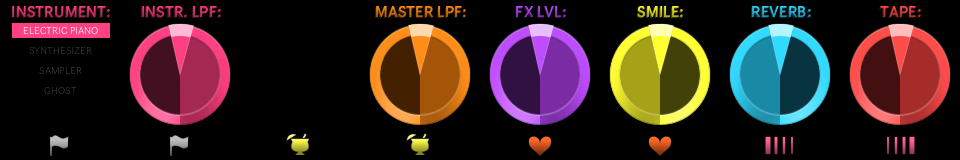
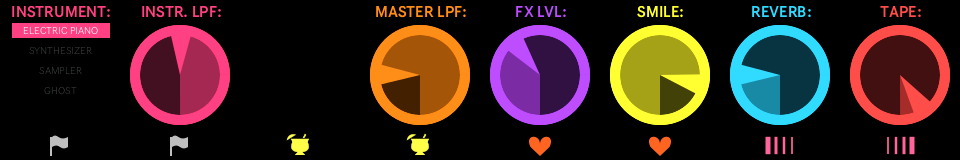
Updated display

diff --git a/display_utils.py b/display_utils.py
@@ -14,36 +14,13 @@ def show_title(ctx, x, h, text, color=[1, 1, 1]):
     ctx.show_text(text)
 
 
-def draw_xr18_button(ctx, x, xr18_button, text, color):
-    if xr18_button == 0:
-        ctx.set_source_rgb(*color)
-    else:
-        color2 = [1, 1, 1]
-        fill_button(ctx, x, 0, *color2)
-        # Paint Shape Black
-        ctx.set_source_rgb(0, 0, 0)
-    ctx.select_font_face("Ableton Sans Bold", cairo.FONT_SLANT_NORMAL, cairo.FONT_WEIGHT_NORMAL)
-    ctx.set_font_size(15)
-    ctx.move_to(x - (ctx.text_extents(text)[2] / 2), 25)
-    ctx.show_text(text)
-
-
 def draw_title(ctx, center_x, text, *color):
     text = str(text)
     ctx.select_font_face("Ableton Sans Bold", cairo.FONT_SLANT_NORMAL, cairo.FONT_WEIGHT_NORMAL)
     ctx.set_font_size(15)
 
-    # Text Shadow
-    ctx.set_source_rgba(*color, 0.25)
-    ctx.move_to(center_x - (ctx.text_extents(text)[2] / 2) - 1, 18)
-    ctx.text_path(text)
-    ctx.fill()
-
     # Main Text
-    pat = cairo.LinearGradient(center_x - (ctx.text_extents(text)[2] / 2), ctx.text_extents(text)[3] / 2, center_x - (ctx.text_extents(text)[2] / 2), ctx.text_extents(text)[3] * 2)
-    pat.add_color_stop_rgb(0, *color)
-    pat.add_color_stop_rgba(1, *color, 0.42)
-    ctx.set_source(pat)
+    ctx.set_source_rgb(*color)
     ctx.move_to(center_x - (ctx.text_extents(text)[2] / 2), 17)
     ctx.show_text(text)
 
@@ -129,29 +106,7 @@ def draw_knob(ctx, center_x, center_y, rad, control, off_value, *color):
             ctx.set_line_width(line)
             ctx.stroke()
 
-            pat = cairo.MeshPattern()
-            pat.begin_patch()
-            pat.move_to(center_x, center_y - (rad / 4 + (line / 2)))
-            pat.line_to(center_x - (rad + (line / 2)), center_y - (rad / 4 + (line / 2)))
-            pat.line_to(center_x - (rad + (line / 2)), center_y + (rad + (line / 2)))
-            pat.line_to(center_x, center_y + (rad + (line / 2)))
-            pat.set_corner_color_rgba(0, *color, 1)
-            pat.set_corner_color_rgba(1, *color, 1)
-            pat.set_corner_color_rgba(2, *color, 1)
-            pat.set_corner_color_rgba(3, 0, 0, 0, 0.25)
-            pat.end_patch()
-
-            pat.begin_patch()
-            pat.move_to(center_x, center_y + (rad + (line / 2)))
-            pat.line_to(center_x + (rad + (line / 2)), center_y + (rad + (line / 2)))
-            pat.line_to(center_x + (rad + (line / 2)), center_y - (rad / 4 + (line / 2)))
-            pat.line_to(center_x, center_y - (rad / 4 + (line / 2)))
-            pat.set_corner_color_rgba(0, 1, 1, 1, 0.05)
-            pat.set_corner_color_rgba(1, *color, 1)
-            pat.set_corner_color_rgba(2, *color, 1)
-            pat.set_corner_color_rgba(3, *color, 1)
-            pat.end_patch()
-            ctx.set_source(pat)
+            ctx.set_source_rgb(*color)
 
             ctx.arc(center_x, center_y, rad, 0, 2 * 3.14)
             ctx.set_line_width(line)
@@ -162,85 +117,34 @@ def draw_knob(ctx, center_x, center_y, rad, control, off_value, *color):
             ctx.set_line_width(line)
             ctx.stroke()
 
-            pat = cairo.MeshPattern()
-            pat.begin_patch()
-            pat.move_to(center_x, center_y - (rad / 4 + (line / 2)))
-            pat.line_to(center_x - (rad + (line / 2)), center_y - (rad / 4 + (line / 2)))
-            pat.line_to(center_x - (rad + (line / 2)), center_y + (rad + (line / 2)))
-            pat.line_to(center_x, center_y + (rad + (line / 2)))
-            pat.set_corner_color_rgba(0, *color, 1)
-            pat.set_corner_color_rgba(1, *color, 1)
-            pat.set_corner_color_rgba(2, *color, 1)
-            pat.set_corner_color_rgba(3, 1, 1, 1, 0.05)
-            pat.end_patch()
-
-            pat.begin_patch()
-            pat.move_to(center_x, center_y + (rad + (line / 2)))
-            pat.line_to(center_x + (rad + (line / 2)), center_y + (rad + (line / 2)))
-            pat.line_to(center_x + (rad + (line / 2)), center_y - (rad / 4 + (line / 2)))
-            pat.line_to(center_x, center_y - (rad / 4 + (line / 2)))
-            pat.set_corner_color_rgba(0, 0, 0, 0, 0.25)
-            pat.set_corner_color_rgba(1, *color, 1)
-            pat.set_corner_color_rgba(2, *color, 1)
-            pat.set_corner_color_rgba(3, *color, 1)
-            pat.end_patch()
-            ctx.set_source(pat)
+            ctx.set_source_rgb(*color)
 
             ctx.arc(center_x, center_y, rad, 0, 2 * 3.14)
             ctx.set_line_width(line)
             ctx.stroke()
 
-        # Frame - Frame, inner
-        ctx.arc(center_x, center_y, rad - 5, 0, 2 * 3.14)
-        ctx.set_line_width(2)
-        pat = cairo.LinearGradient(center_x, center_y - 50, center_x, center_y + 50)
-        pat.add_color_stop_rgba(0, 0, 0, 0, 0.25)
-        pat.add_color_stop_rgba(1, 1, 1, 1, 0.25)
-        ctx.set_source(pat)
-        ctx.stroke()
-
-        # Frame - Frame, outer
-        ctx.arc(center_x, center_y, rad + 5, 0, 2 * 3.14)
-        ctx.set_line_width(2)
-        pat = cairo.LinearGradient(center_x, center_y - 50, center_x, center_y + 50)
-        pat.add_color_stop_rgba(0, 1, 1, 1, 0.25)
-        pat.add_color_stop_rgba(1, 0, 0, 0, 0.25)
-        ctx.set_source(pat)
-        ctx.stroke()
 
     # # Indicator
     # Inner (if value is "0")
     if control == off_value:
         ctx.set_source_rgb(*screen_dark)
-        ctx.arc(center_x, center_y, rad + 6, pos1, pos2)
+        # ctx.arc(center_x, center_y, rad + 6, pos1, pos2)
+        ctx.arc(center_x, center_y, rad, pos1, pos2)
         ctx.line_to(center_x, center_y)
         ctx.fill()
     else:
-        # Shadow
-        ctx.set_source_rgba(0, 0, 0, 0.25)
-        ctx.arc(center_x, center_y + 2, rad + 6, pos1, pos2)
-        ctx.line_to(center_x, center_y + 2)
-        ctx.fill()
-
         # Main
         ctx.set_source_rgb(*color)
-        ctx.arc(center_x, center_y, rad + 6, pos1, pos2)
+        # ctx.arc(center_x, center_y, rad + 6, pos1, pos2)
+        ctx.arc(center_x, center_y, rad, pos1, pos2)
         ctx.line_to(center_x, center_y)
         ctx.fill()
 
-        # Lighting
-        ctx.set_source_rgba(1, 1, 1, 0.25)
-        ctx.arc(center_x, center_y, rad + 6, pos1, pos2)
-        ctx.line_to(center_x, center_y)
-        ctx.close_path()
-        ctx.set_line_width(1)
-        ctx.stroke()
-
-        # Outer Indicator "marker"
-        ctx.set_source_rgba(1, 1, 1, 0.64)
-        ctx.arc(center_x, center_y, rad, pos1, pos2)
-        ctx.set_line_width(12)
-        ctx.stroke()
+        # # Outer Indicator "marker"
+        # ctx.set_source_rgba(1, 1, 1, 0.64)
+        # ctx.arc(center_x, center_y, rad, pos1, pos2)
+        # ctx.set_line_width(12)
+        # ctx.stroke()
 
 def fill_button(ctx, x, y_min, *color):
     # Fill "Button"
@@ -277,62 +181,18 @@ def draw_cue(ctx, x, midi_value):
         y = y_min
         flag()
 
-        pat = cairo.LinearGradient(x, y_min + 10, x, y_min + 25)
-        pat.add_color_stop_rgba(0, *color, 1)
-        pat.add_color_stop_rgba(1, *color, 0.5)
-        ctx.set_source(pat)
+        # pat = cairo.LinearGradient(x, y_min + 10, x, y_min + 25)
+        # pat.add_color_stop_rgba(0, *color, 1)
+        # pat.add_color_stop_rgba(1, *color, 0.5)
+        # ctx.set_source(pat)
+
+        ctx.set_source_rgb(*color)
 
         ctx.fill_preserve()
 
         # Cue (Stroke color)
-        pat = cairo.MeshPattern()
-
-        pat.begin_patch()
-        pat.move_to(x - 10, y_min + 5)
-        pat.line_to(x - 10, y_min + 26)
-        pat.line_to(x - 6, y_min + 26)
-        pat.line_to(x - 9, y_min + 5)
-        pat.set_corner_color_rgba(0, 1, 1, 1, 0.32)
-        pat.set_corner_color_rgba(1, 0, 0, 0, 0.32)
-        pat.set_corner_color_rgba(2, 0, 0, 0, 0.32)
-        pat.set_corner_color_rgba(3, 0, 0, 0, 0.32)
-        pat.end_patch()
-
-        pat.begin_patch()
-        pat.move_to(x - 8, y_min + 5)
-        pat.line_to(x - 6, y_min + 17)
-        pat.line_to(x - 4, y_min + 17)
-        pat.line_to(x - 4, y_min + 5)
-        pat.set_corner_color_rgba(0, 0, 0, 0, 0.32)
-        pat.set_corner_color_rgba(1, 0, 0, 0, 0.32)
-        pat.set_corner_color_rgba(2, 1, 1, 1, 0.32)
-        pat.set_corner_color_rgba(3, 1, 1, 1, 0.32)
-        pat.end_patch()
-
-        pat.begin_patch()
-        pat.move_to(x - 4, y_min + 5)
-        pat.line_to(x - 4, y_min + 17)
-        pat.line_to(x + 2, y_min + 17)
-        pat.line_to(x + 2, y_min + 5)
-        pat.set_corner_color_rgba(0, 1, 1, 1, 0.32)
-        pat.set_corner_color_rgba(1, 1, 1, 1, 0.32)
-        pat.set_corner_color_rgba(2, 0, 0, 0, 0.32)
-        pat.set_corner_color_rgba(3, 1, 1, 1, 0.32)
-        pat.end_patch()
-
-        pat.begin_patch()
-        pat.move_to(x + 2, y_min + 5)
-        pat.line_to(x + 2, y_min + 17)
-        pat.line_to(x + 8, y_min + 17)
-        pat.line_to(x + 8, y_min + 5)
-        pat.set_corner_color_rgba(0, 0, 0, 0, 0.32)
-        pat.set_corner_color_rgba(1, 0, 0, 0, 0.32)
-        pat.set_corner_color_rgba(2, 0, 0, 0, 0.32)
-        pat.set_corner_color_rgba(3, 1, 1, 1, 0.32)
-        pat.end_patch()
-
-        ctx.set_source(pat)
-        ctx.set_line_width(1)
+        ctx.set_source_rgb(*color)
+        ctx.set_line_width(0)
         ctx.stroke()
 
     else:
@@ -376,30 +236,15 @@ def draw_bar(ctx, x, midi_value):
         ctx.curve_to(x - 11, y + 2, x - 4, y + 5, x - 4, y + 5)
 
     if midi_value == 0:
-        # # Bar (Shadow)
-        # x = x - 2
-        # y = y_min + 3
-        # bar()
-        # ctx.set_source_rgba(*color, 0.25)
-        # ctx.fill()
-
-        # Bar (Fill)
-        # x = x + 2
-        # y = y_min + 1
         bar()
 
-        pat = cairo.LinearGradient(x, y_min + 10, x, y_min + 23)
-        pat.add_color_stop_rgba(0, *color, 1)
-        pat.add_color_stop_rgba(1, *color, 0.5)
-        ctx.set_source(pat)
+        ctx.set_source_rgb(*color)
+
         ctx.fill_preserve()
 
         # Bar (Stroke color)
-        pat = cairo.LinearGradient(x, y_min + 7, x, y_min + 25)
-        pat.add_color_stop_rgba(0, 1, 1, 1, 0.5)
-        pat.add_color_stop_rgba(1, 0, 0, 0, 0.32)
-        ctx.set_source(pat)
-        ctx.set_line_width(1)
+        ctx.set_source_rgb(*color)
+        ctx.set_line_width(0.5)
         ctx.set_line_cap(cairo.LINE_CAP_BUTT)
         ctx.stroke()
 
@@ -427,32 +272,16 @@ def draw_beat(ctx, x, midi_value):
         ctx.set_line_cap(cairo.LINE_CAP_ROUND)
 
     if midi_value == 0:
-        # # Beat (Shadow)
-        # x = x - 2
-        # y = y_min + 4
-        # beat()
-        # ctx.set_source_rgba(*color, 0.25)
-        # ctx.fill()
 
-        # Beat (Fill)
-        # x = x + 2
-        # y = y_min + 2
         beat()
 
-        pat = cairo.LinearGradient(x, y_min + 10, x, y_min + 23)
-        pat.add_color_stop_rgba(0, *color, 1)
-        pat.add_color_stop_rgba(1, *color, 0.5)
-        ctx.set_source(pat)
-        ctx.set_source(pat)
+        ctx.set_source_rgb(*color)
         ctx.fill_preserve()
 
         # Beat (Stroke)
-        pat = cairo.LinearGradient(x, y_min + 5, x, y_min + 25)
-        pat.add_color_stop_rgba(0, 1, 1, 1, 0.25)
-        pat.add_color_stop_rgba(1, 0, 0, 0, 0.25)
-        ctx.set_source(pat)
+        ctx.set_source_rgb(*color)
         ctx.set_line_cap(cairo.LINE_CAP_ROUND)
-        ctx.set_line_width(1)
+        ctx.set_line_width(0)
         ctx.stroke()
 
     else:
@@ -503,10 +332,7 @@ def draw_nudge_1(ctx, x, midi_value):
         # Nudge 1 fill color
         # x = x + 2
         y_min = 130
-        pat = cairo.LinearGradient(x, y_min + 10, x, y_max - 5)
-        pat.add_color_stop_rgba(0, *color, 1)
-        pat.add_color_stop_rgba(1, *color, 0.5)
-        ctx.set_source(pat)
+        ctx.set_source_rgb(*color)
         nudge_1()
 
     else:
@@ -543,24 +369,12 @@ def draw_nudge_2(ctx, x, midi_value):
         ctx.stroke()
 
     if midi_value == 0:
-        # # Shadow
-        # x = x - 2
-        # y_min = 132
-        # ctx.set_source_rgba(*color, 0.25)
-        # ctx.set_line_cap(cairo.LINE_CAP_SQUARE)
-        # nudge_2()
-
         # Nudge 2 (Fill color)
-        pat = cairo.LinearGradient(x, y_min + 10, x, y_min + 25)
-        pat.add_color_stop_rgba(0, *color, 1)
-        pat.add_color_stop_rgba(1, *color, 0.5)
-        ctx.set_source(pat)
+        ctx.set_source_rgb(*color)
         # ctx.fill()
 
-        # Nudge 2 (Shape)
-        # x = x + 2
-        y_min = 130
-        ctx.set_source(pat)
+        # Nudge 2 (Stroke color)
+        ctx.set_source_rgb(*color)
         ctx.set_line_cap(cairo.LINE_CAP_SQUARE)
         nudge_2()
 

diff --git a/X TEST Cairo.py b/X TEST Cairo.py
@@ -3,7 +3,7 @@ import push2_python
 
 from display_utils import draw_title, draw_list, draw_knob, draw_cue, draw_bar, draw_beat, draw_nudge_1, draw_nudge_2
 
-controls = {'instr': 0, 'instr_lpf': 64, 'master_lpf': 64, 'fx': 64, 'smile': 64, 'reverb': 64, 'tape': 64}
+controls = {'instr': 0, 'instr_lpf': 128, 'master_lpf': 64, 'fx': 100, 'smile': 200, 'reverb': 64, 'tape': 230}
 
 transport = {'cue1': 0, 'cue2': 0, 'bar1': 0, 'bar2': 0, 'beat1': 0, 'beat2': 0, 'nudge1': 0, 'nudge2': 0}
 
@@ -95,7 +95,7 @@ draw_list(ctx, center_x, y, text, *color)
 # Instrument_filter QUASI-GLOBALS
 title = "INSTR. LPF:"
 control = controls['instr_lpf']
-off_value = 127
+off_value = 254
 
 if controls['instr'] in piano_range:
     color = [1, 0.25, 0.5]
@@ -117,7 +117,7 @@ title = "MASTER LPF:"
 control = controls['master_lpf']
 color = [1, 0.55, 0.1]
 center_x = 420
-off_value = 127
+off_value = 254
 
 draw_title(ctx, center_x, title, *color)
 draw_knob(ctx, center_x, center_y, rad, control, off_value, *color)
@@ -129,6 +129,7 @@ title = "FX LVL:"
 control = controls['fx']
 color = [0.75, 0.3, 1]
 center_x = 540
+off_value = 0
 
 draw_title(ctx, center_x, title, *color)
 draw_knob(ctx, center_x, center_y, rad, control, off_value, *color)
@@ -164,7 +165,7 @@ title = "TAPE:"
 control = controls['tape']
 color = [1, 0.3, 0.3]
 center_x = 900
-off_value = 127
+off_value = 254
 
 draw_title(ctx, center_x, title, *color)
 draw_knob(ctx, center_x, center_y, rad, control, off_value, *color)
